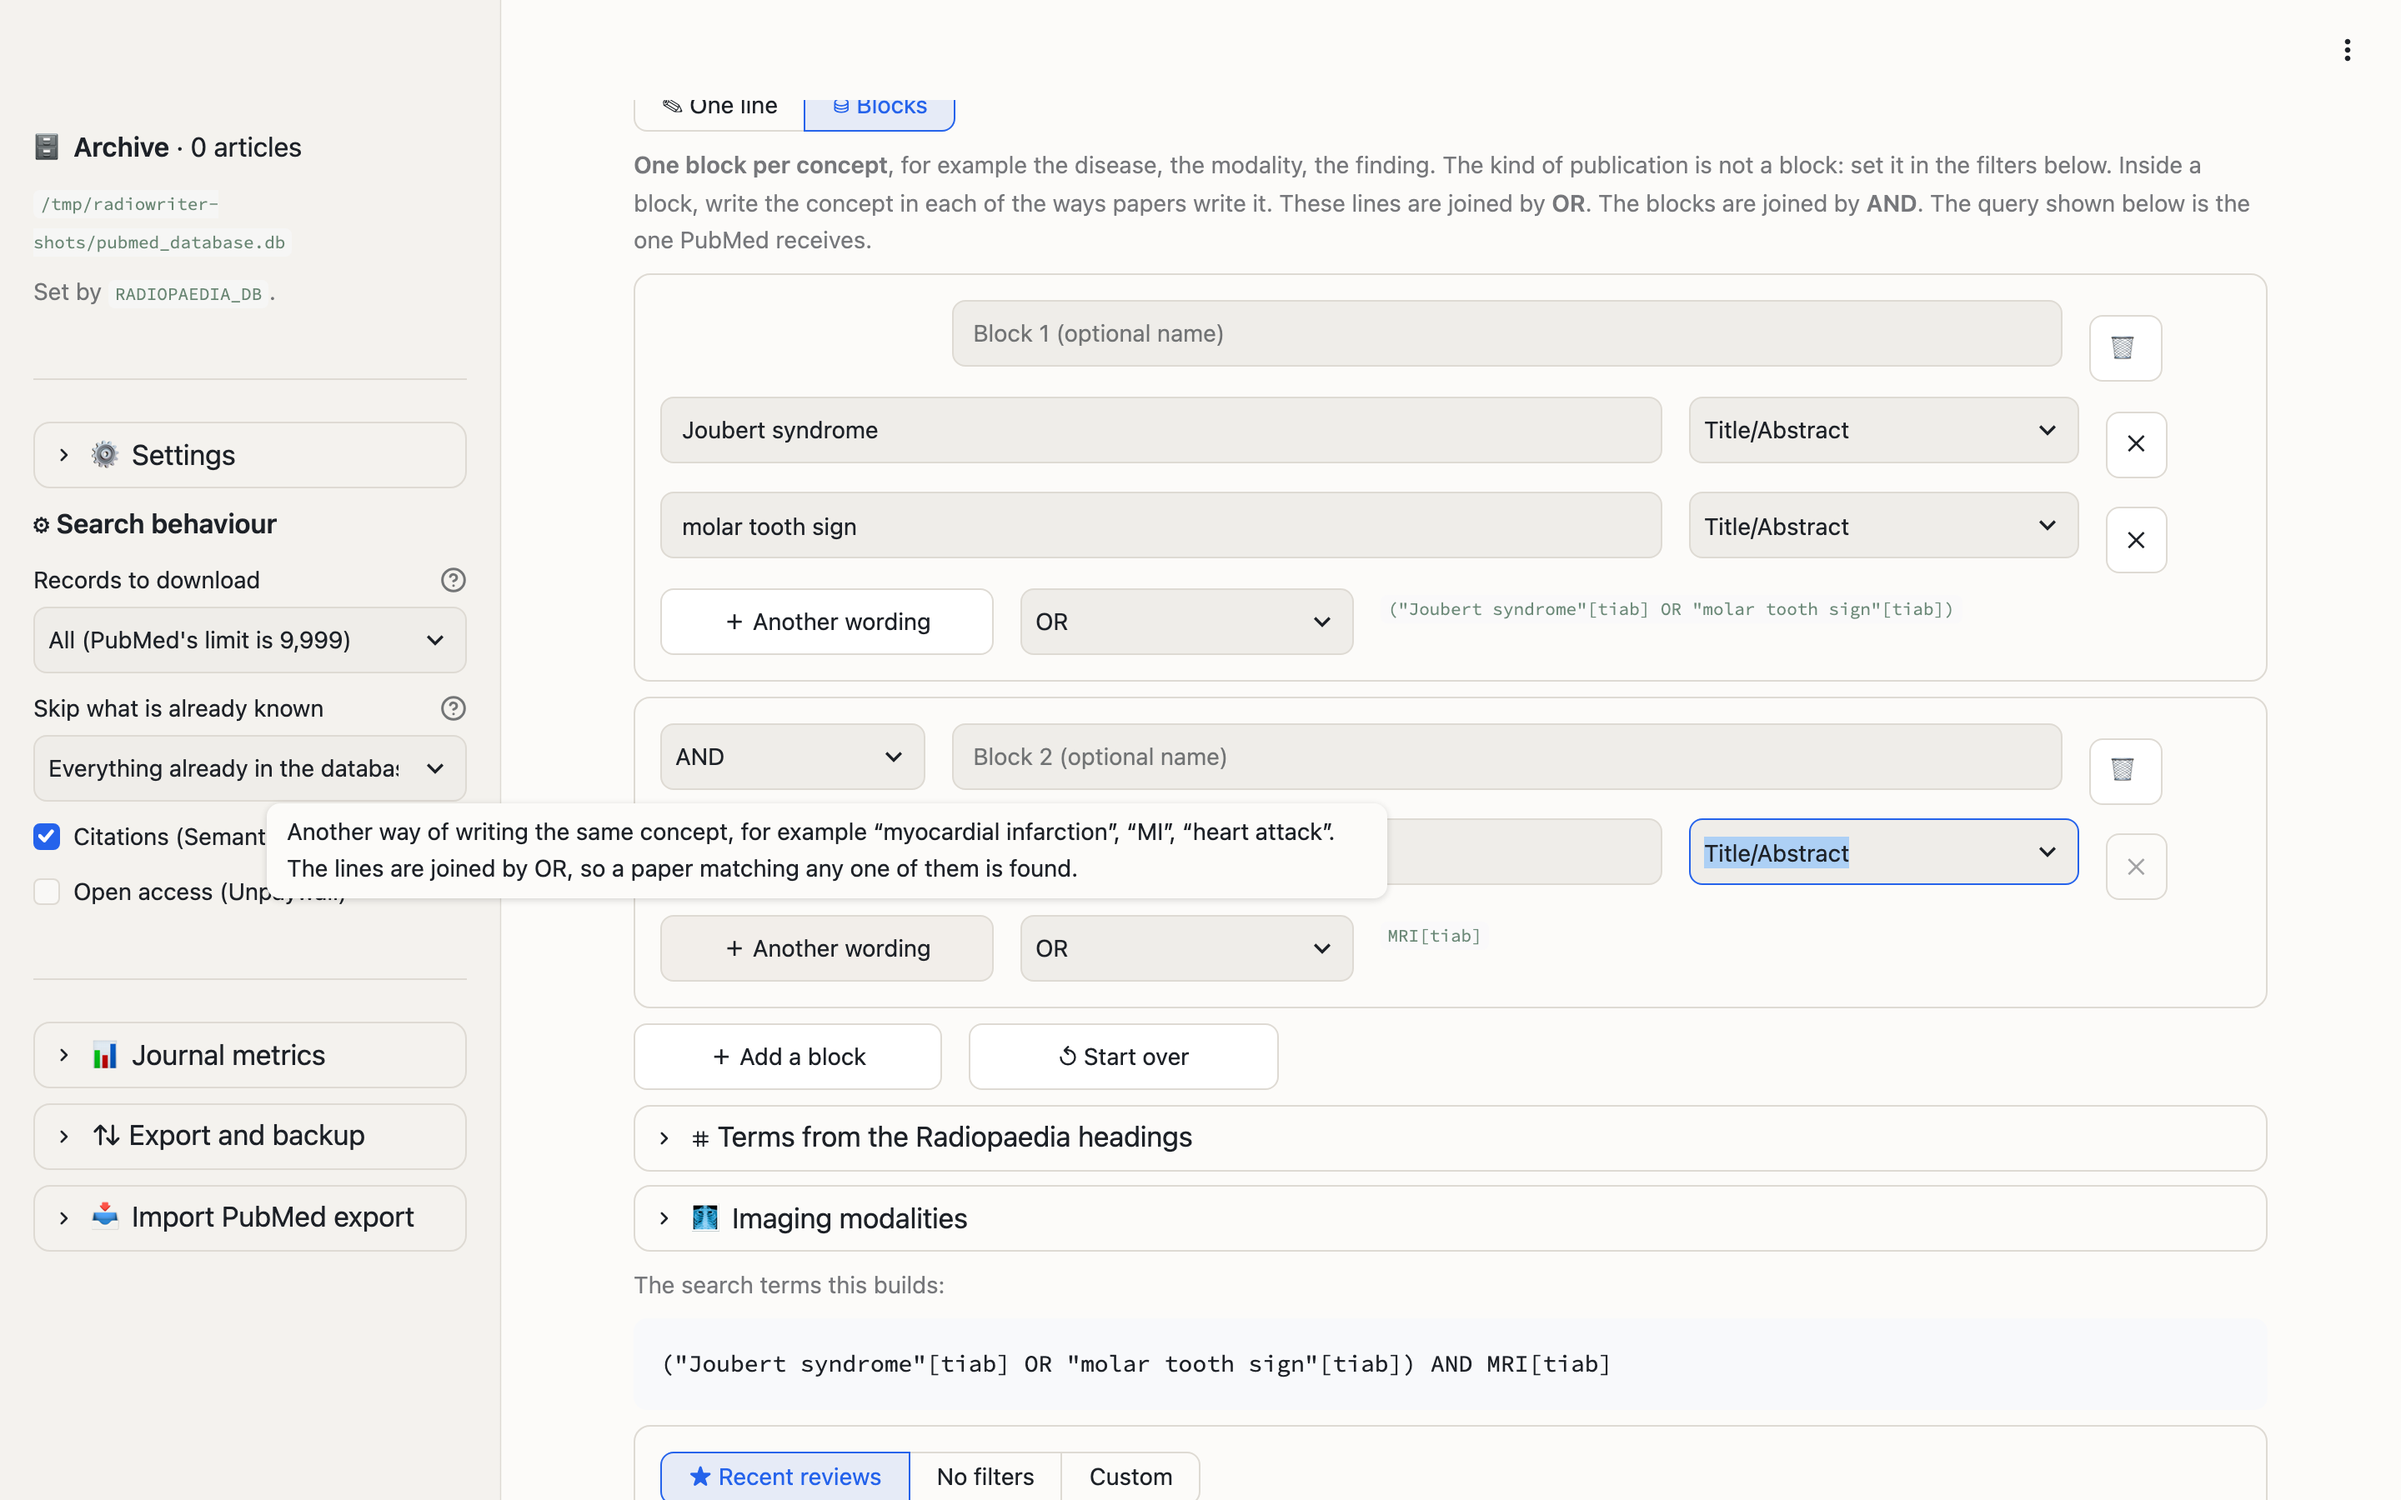
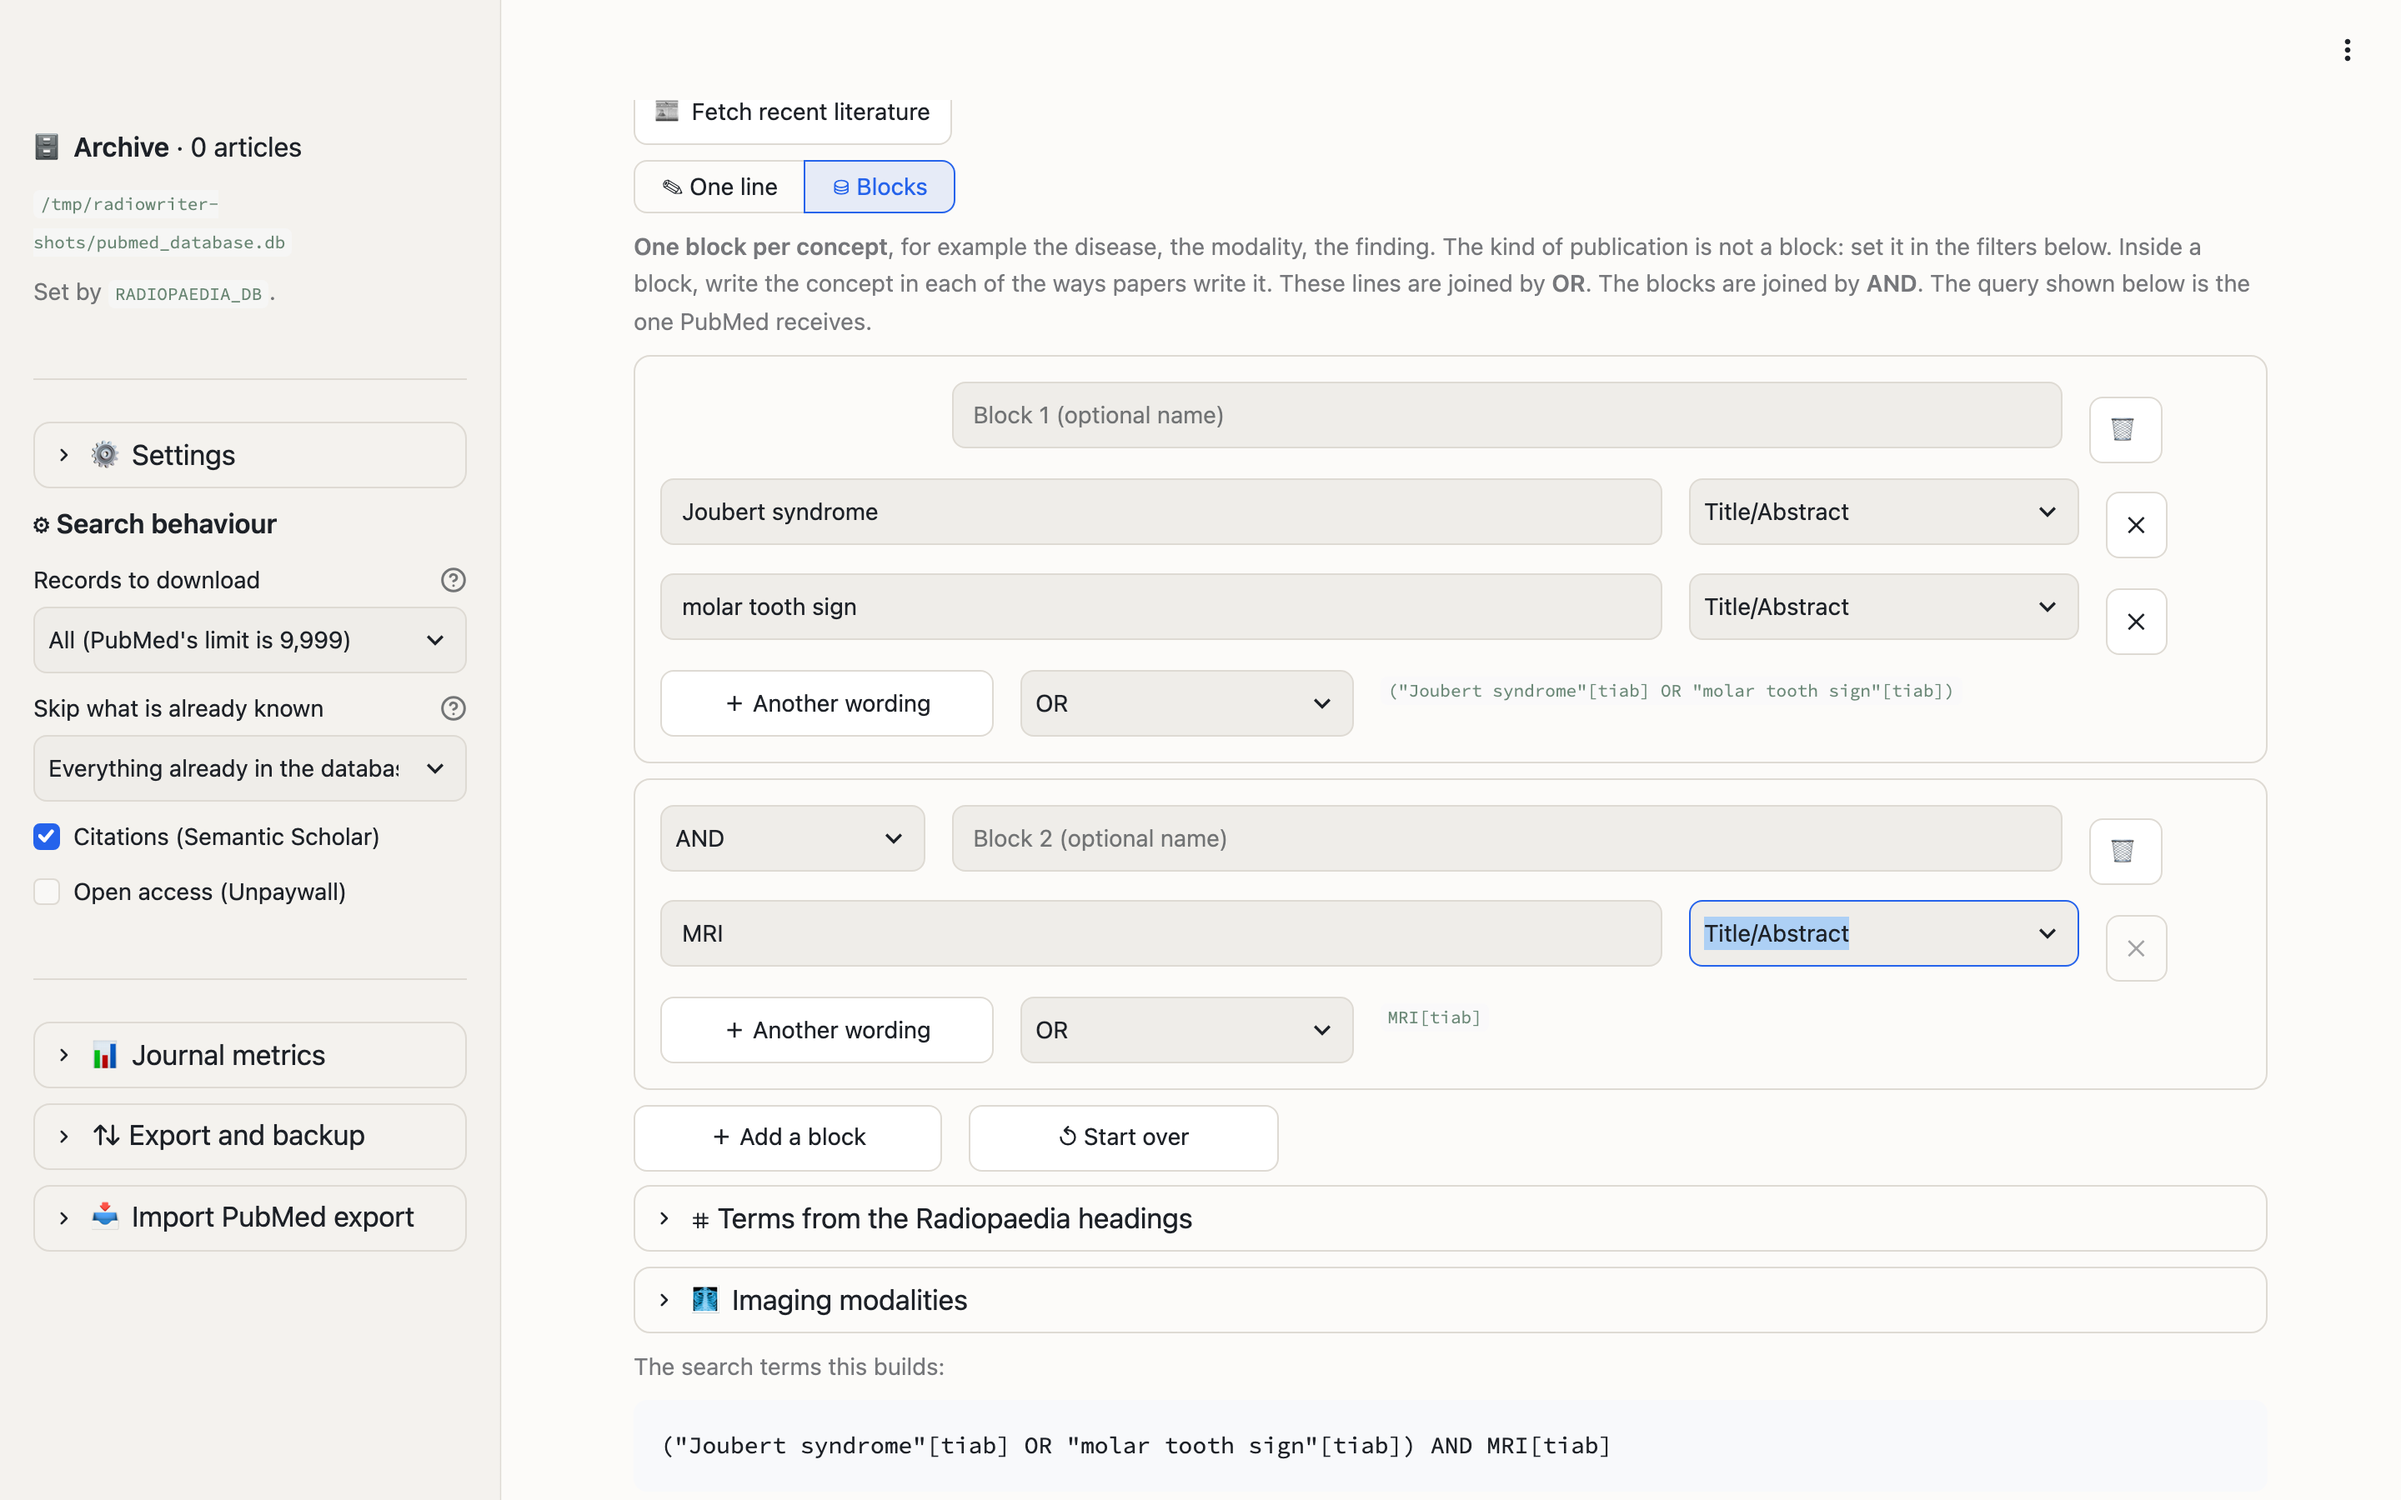
Retake the documentation screenshots
The search tab, the blocks, the results and the Screening tab changed in
0.1.5 to 0.1.7. In shots.py the Headings expander is found by its full name,
because "Headings" alone now matches the Radiopaedia headings button, and the
mouse is moved off the buttons before the blocks shot, so that no tooltip
covers the term.

diff --git a/scripts/shots.py b/scripts/shots.py
@@ -101,6 +101,9 @@ def take(page) -> None:
     # Un filo piu' in basso: la query composta e' il punto di tutta la
     # schermata, e tagliata a meta' non spiega niente.
     page.mouse.wheel(0, 150)
+    # Il mouse via dai pulsanti: fermo su "Another wording" ne apre l'aiuto,
+    # che copre il termine appena scritto.
+    page.mouse.move(WIDTH - 40, HEIGHT // 2)
     settle(page)
     shoot(page, "02-blocks")
 
@@ -173,7 +176,9 @@ def take(page) -> None:
     shoot(page, "05-write")
 
     # --- la struttura dei titoli -------------------------------------------
-    page.get_by_text("Headings", exact=False).first.click()
+    # Il nome intero: "Headings" da solo trova prima il pulsante
+    # "Radiopaedia headings" della scheda di ricerca, che qui non si vede.
+    page.get_by_text("Headings for this kind of article", exact=False).first.click()
     settle(page, 3)
     page.mouse.wheel(0, 420)
     settle(page, 2)
